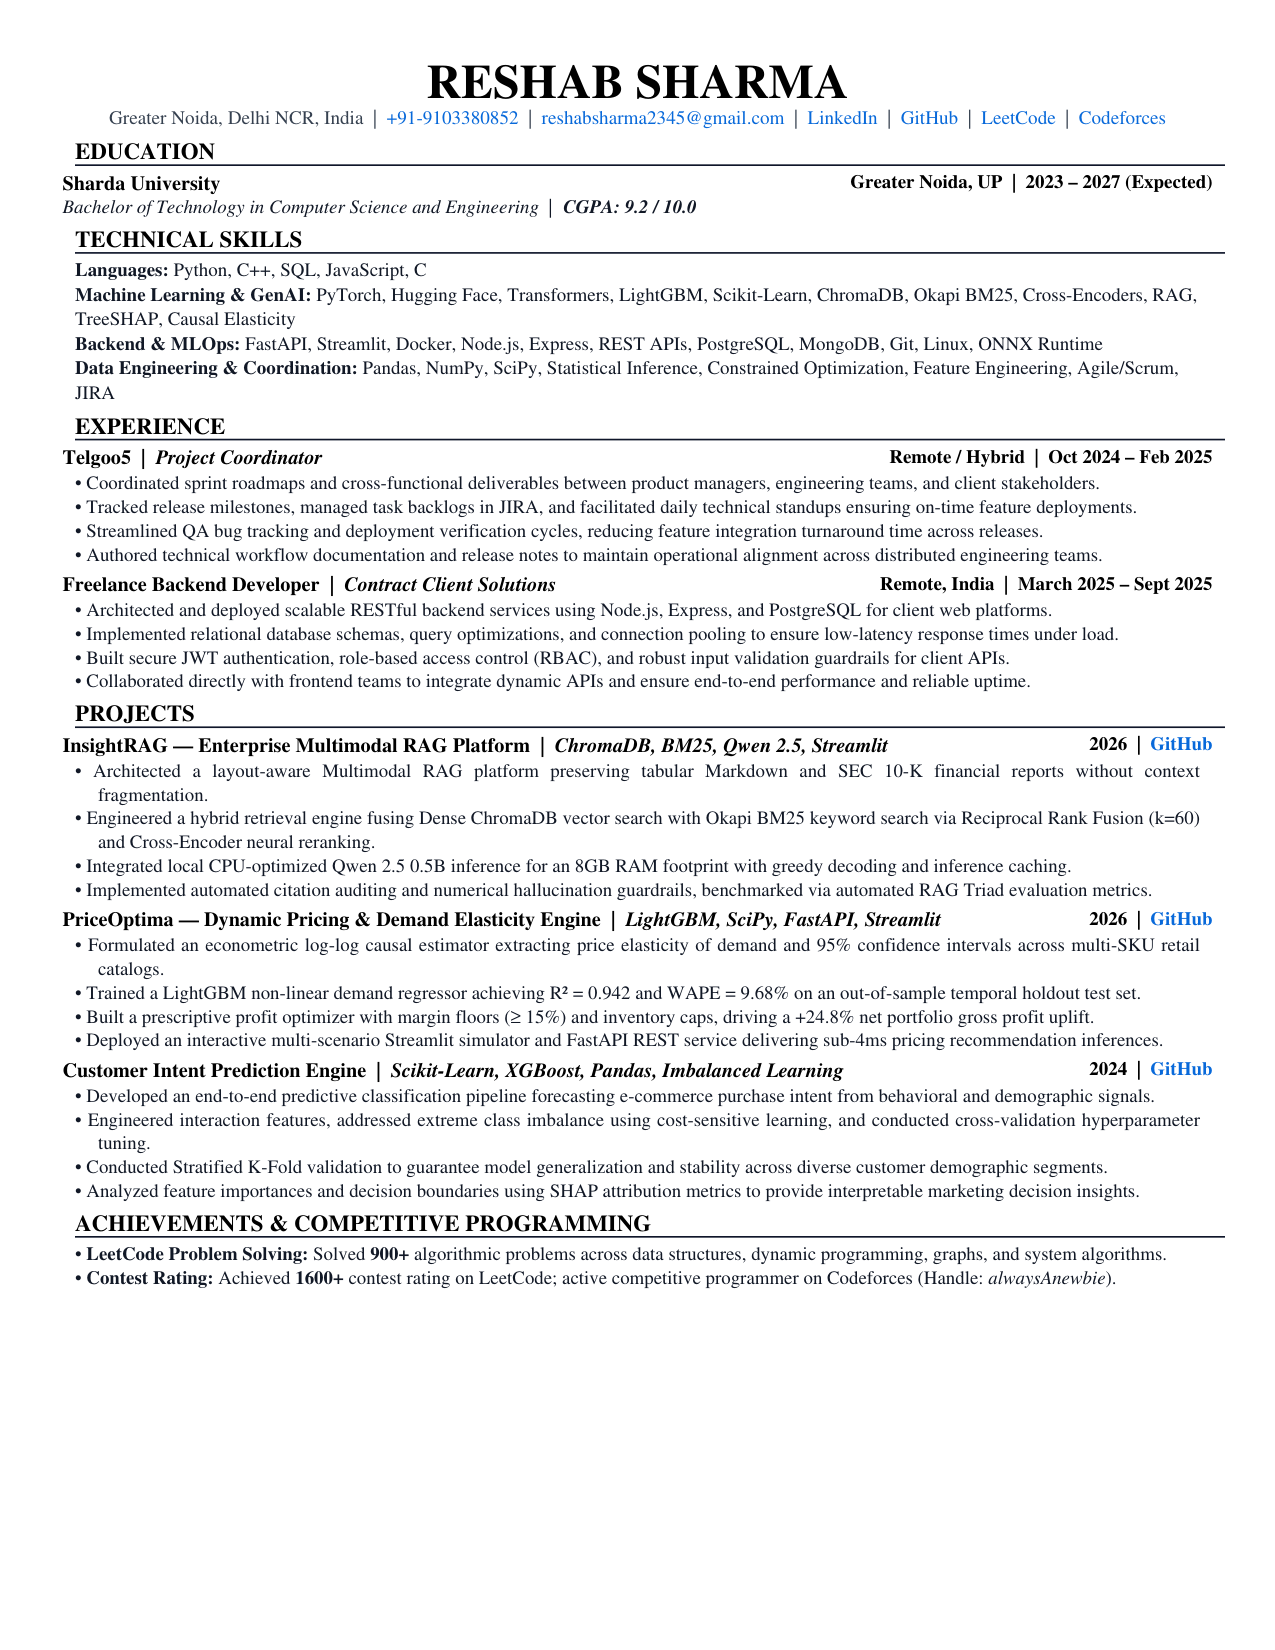
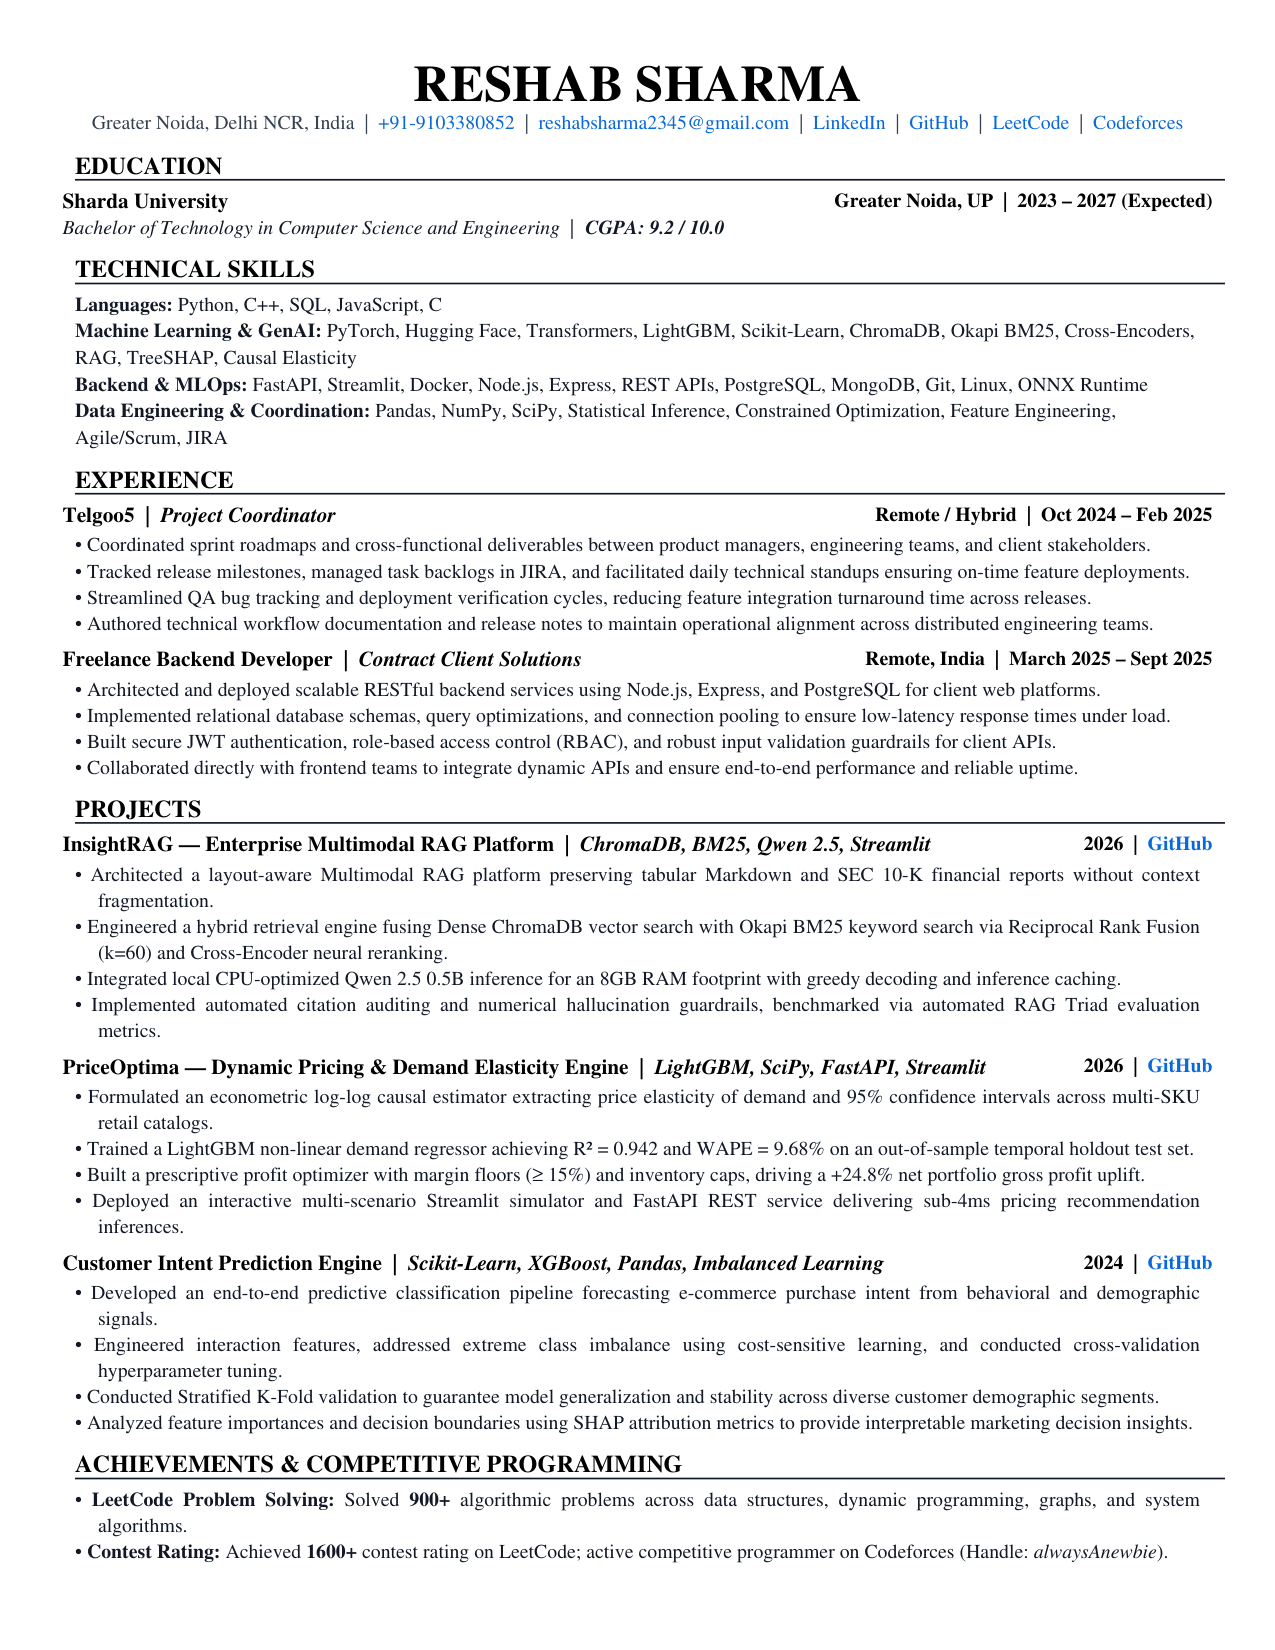
style: optimize vertical geometry to completely fill 1-page canvas

diff --git a/build_resume_pdf.py b/build_resume_pdf.py
@@ -8,7 +8,7 @@ from reportlab.platypus import SimpleDocTemplate, Paragraph, Spacer, Table, Tabl
 
 class HRule(Flowable):
     """Guaranteed vector horizontal rule that never gets swallowed by adjacent tables."""
-    def __init__(self, width=552, thickness=0.8, color=colors.HexColor("#0F172A"), space_after=2):
+    def __init__(self, width=552, thickness=0.8, color=colors.HexColor("#0F172A"), space_after=3.5):
         super().__init__()
         self.width = width
         self.thickness = thickness
@@ -27,7 +27,7 @@ class HRule(Flowable):
 
 
 def build_pdf(output_path: str):
-    # Standard Letter: 612 x 792 pt. Margins: 30 pt left/right, 18 pt top/bottom -> usable width = 552 pt
+    # Standard Letter: 612 x 792 pt. Margins: 30 pt left/right, 18 pt top/bottom
     margin_lr = 30
     margin_tb = 18
     usable_width = 612 - (2 * margin_lr)  # 552 pt
@@ -45,12 +45,12 @@ def build_pdf(output_path: str):
     TEXT_DARK = colors.HexColor("#111827")
     TEXT_MUTED = colors.HexColor("#374151")
 
-    # Typography styles
+    # Full-page comfortable typography
     name_style = ParagraphStyle(
         "Name",
         fontName="Times-Bold",
-        fontSize=23,
-        leading=25,
+        fontSize=24.5,
+        leading=26.5,
         alignment=1,
         textColor=PRIMARY
     )
@@ -58,8 +58,8 @@ def build_pdf(output_path: str):
     contact_style = ParagraphStyle(
         "Contact",
         fontName="Times-Roman",
-        fontSize=9.2,
-        leading=12,
+        fontSize=9.5,
+        leading=13.2,
         alignment=1,
         textColor=TEXT_MUTED
     )
@@ -67,24 +67,24 @@ def build_pdf(output_path: str):
     section_title_style = ParagraphStyle(
         "SectionTitle",
         fontName="Times-Bold",
-        fontSize=11,
-        leading=13,
+        fontSize=11.6,
+        leading=13.8,
         textColor=PRIMARY
     )
 
     item_title_style = ParagraphStyle(
         "ItemTitle",
         fontName="Times-Bold",
-        fontSize=9.7,
-        leading=11.8,
+        fontSize=10.2,
+        leading=13.2,
         textColor=PRIMARY
     )
 
     item_meta_style = ParagraphStyle(
         "ItemMeta",
         fontName="Times-Bold",
-        fontSize=9.1,
-        leading=11.8,
+        fontSize=9.5,
+        leading=13.2,
         alignment=2,
         textColor=PRIMARY
     )
@@ -92,16 +92,16 @@ def build_pdf(output_path: str):
     item_sub_style = ParagraphStyle(
         "ItemSub",
         fontName="Times-Italic",
-        fontSize=9.1,
-        leading=11.5,
+        fontSize=9.5,
+        leading=12.5,
         textColor=TEXT_DARK
     )
 
     bullet_style = ParagraphStyle(
         "Bullet",
         fontName="Times-Roman",
-        fontSize=9.05,
-        leading=11.4,
+        fontSize=9.5,
+        leading=12.5,
         textColor=TEXT_DARK,
         leftIndent=11,
         firstLineIndent=-11,
@@ -111,22 +111,22 @@ def build_pdf(output_path: str):
     skills_style = ParagraphStyle(
         "Skills",
         fontName="Times-Roman",
-        fontSize=9.1,
-        leading=11.8,
+        fontSize=9.5,
+        leading=12.8,
         textColor=TEXT_DARK
     )
 
     def section_header(title: str):
         return [
             Paragraph(f"<b>{title.upper()}</b>", section_title_style),
-            HRule(width=usable_width, thickness=0.8, color=colors.HexColor("#0F172A"), space_after=2)
+            HRule(width=usable_width, thickness=0.8, color=colors.HexColor("#0F172A"), space_after=3.5)
         ]
 
     story = []
 
     # 1. Header
     story.append(Paragraph("RESHAB SHARMA", name_style))
-    story.append(Spacer(1, 1.5))
+    story.append(Spacer(1, 2))
     
     contacts = (
         'Greater Noida, Delhi NCR, India &nbsp;|&nbsp; '
@@ -138,7 +138,7 @@ def build_pdf(output_path: str):
         '<font color="#0969DA"><a href="https://codeforces.com/profile/alwaysAnewbie">Codeforces</a></font>'
     )
     story.append(Paragraph(contacts, contact_style))
-    story.append(Spacer(1, 3))
+    story.append(Spacer(1, 6))
 
     # 2. Education
     story.extend(section_header("Education"))
@@ -161,7 +161,7 @@ def build_pdf(output_path: str):
         ("RIGHTPADDING", (0, 0), (-1, -1), 0),
     ]))
     story.append(t_edu)
-    story.append(Spacer(1, 3))
+    story.append(Spacer(1, 6))
 
     # 3. Technical Skills
     story.extend(section_header("Technical Skills"))
@@ -172,12 +172,12 @@ def build_pdf(output_path: str):
         "<b>Data Engineering &amp; Coordination:</b> Pandas, NumPy, SciPy, Statistical Inference, Constrained Optimization, Feature Engineering, Agile/Scrum, JIRA"
     )
     story.append(Paragraph(skills_text, skills_style))
-    story.append(Spacer(1, 3))
+    story.append(Spacer(1, 6))
 
     # 4. Experience (4 pointers each)
     story.extend(section_header("Experience"))
 
-    # Telgoo5 (4 pointers)
+    # Telgoo5
     exp1_data = [
         [
             Paragraph("<b>Telgoo5</b> &nbsp;|&nbsp; <i>Project Coordinator</i>", item_title_style),
@@ -193,14 +193,14 @@ def build_pdf(output_path: str):
         ("RIGHTPADDING", (0, 0), (-1, -1), 0),
     ]))
     story.append(t_exp1)
-    story.append(Spacer(1, 1))
+    story.append(Spacer(1, 1.5))
     story.append(Paragraph("• Coordinated sprint roadmaps and cross-functional deliverables between product managers, engineering teams, and client stakeholders.", bullet_style))
     story.append(Paragraph("• Tracked release milestones, managed task backlogs in JIRA, and facilitated daily technical standups ensuring on-time feature deployments.", bullet_style))
     story.append(Paragraph("• Streamlined QA bug tracking and deployment verification cycles, reducing feature integration turnaround time across releases.", bullet_style))
     story.append(Paragraph("• Authored technical workflow documentation and release notes to maintain operational alignment across distributed engineering teams.", bullet_style))
-    story.append(Spacer(1, 2.5))
+    story.append(Spacer(1, 4.5))
 
-    # Freelance Backend Developer (4 pointers)
+    # Freelance Backend Developer
     exp2_data = [
         [
             Paragraph("<b>Freelance Backend Developer</b> &nbsp;|&nbsp; <i>Contract Client Solutions</i>", item_title_style),
@@ -216,12 +216,12 @@ def build_pdf(output_path: str):
         ("RIGHTPADDING", (0, 0), (-1, -1), 0),
     ]))
     story.append(t_exp2)
-    story.append(Spacer(1, 1))
+    story.append(Spacer(1, 1.5))
     story.append(Paragraph("• Architected and deployed scalable RESTful backend services using Node.js, Express, and PostgreSQL for client web platforms.", bullet_style))
     story.append(Paragraph("• Implemented relational database schemas, query optimizations, and connection pooling to ensure low-latency response times under load.", bullet_style))
     story.append(Paragraph("• Built secure JWT authentication, role-based access control (RBAC), and robust input validation guardrails for client APIs.", bullet_style))
     story.append(Paragraph("• Collaborated directly with frontend teams to integrate dynamic APIs and ensure end-to-end performance and reliable uptime.", bullet_style))
-    story.append(Spacer(1, 3))
+    story.append(Spacer(1, 6))
 
     # 5. Projects (4 pointers each)
     story.extend(section_header("Projects"))
@@ -246,12 +246,12 @@ def build_pdf(output_path: str):
         "2026",
         "https://github.com/info-extractors/insight-rag"
     ))
-    story.append(Spacer(1, 1))
+    story.append(Spacer(1, 1.5))
     story.append(Paragraph("• Architected a layout-aware Multimodal RAG platform preserving tabular Markdown and SEC 10-K financial reports without context fragmentation.", bullet_style))
     story.append(Paragraph("• Engineered a hybrid retrieval engine fusing Dense ChromaDB vector search with Okapi BM25 keyword search via Reciprocal Rank Fusion (k=60) and Cross-Encoder neural reranking.", bullet_style))
     story.append(Paragraph("• Integrated local CPU-optimized Qwen 2.5 0.5B inference for an 8GB RAM footprint with greedy decoding and inference caching.", bullet_style))
     story.append(Paragraph("• Implemented automated citation auditing and numerical hallucination guardrails, benchmarked via automated RAG Triad evaluation metrics.", bullet_style))
-    story.append(Spacer(1, 2.5))
+    story.append(Spacer(1, 4.5))
 
     # Project 2: PriceOptima
     story.append(project_header_table(
@@ -260,12 +260,12 @@ def build_pdf(output_path: str):
         "2026",
         "https://github.com/info-extractors/PriceOptima"
     ))
-    story.append(Spacer(1, 1))
+    story.append(Spacer(1, 1.5))
     story.append(Paragraph("• Formulated an econometric log-log causal estimator extracting price elasticity of demand and 95% confidence intervals across multi-SKU retail catalogs.", bullet_style))
     story.append(Paragraph("• Trained a LightGBM non-linear demand regressor achieving R² = 0.942 and WAPE = 9.68% on an out-of-sample temporal holdout test set.", bullet_style))
     story.append(Paragraph("• Built a prescriptive profit optimizer with margin floors (&ge; 15%) and inventory caps, driving a +24.8% net portfolio gross profit uplift.", bullet_style))
     story.append(Paragraph("• Deployed an interactive multi-scenario Streamlit simulator and FastAPI REST service delivering sub-4ms pricing recommendation inferences.", bullet_style))
-    story.append(Spacer(1, 2.5))
+    story.append(Spacer(1, 4.5))
 
     # Project 3: Customer Intent Prediction
     story.append(project_header_table(
@@ -274,12 +274,12 @@ def build_pdf(output_path: str):
         "2024",
         "https://github.com/info-extractors/Customer-Intent-prediction-using-machine-learning"
     ))
-    story.append(Spacer(1, 1))
+    story.append(Spacer(1, 1.5))
     story.append(Paragraph("• Developed an end-to-end predictive classification pipeline forecasting e-commerce purchase intent from behavioral and demographic signals.", bullet_style))
     story.append(Paragraph("• Engineered interaction features, addressed extreme class imbalance using cost-sensitive learning, and conducted cross-validation hyperparameter tuning.", bullet_style))
     story.append(Paragraph("• Conducted Stratified K-Fold validation to guarantee model generalization and stability across diverse customer demographic segments.", bullet_style))
     story.append(Paragraph("• Analyzed feature importances and decision boundaries using SHAP attribution metrics to provide interpretable marketing decision insights.", bullet_style))
-    story.append(Spacer(1, 3))
+    story.append(Spacer(1, 6))
 
     # 6. Achievements
     story.extend(section_header("Achievements & Competitive Programming"))
